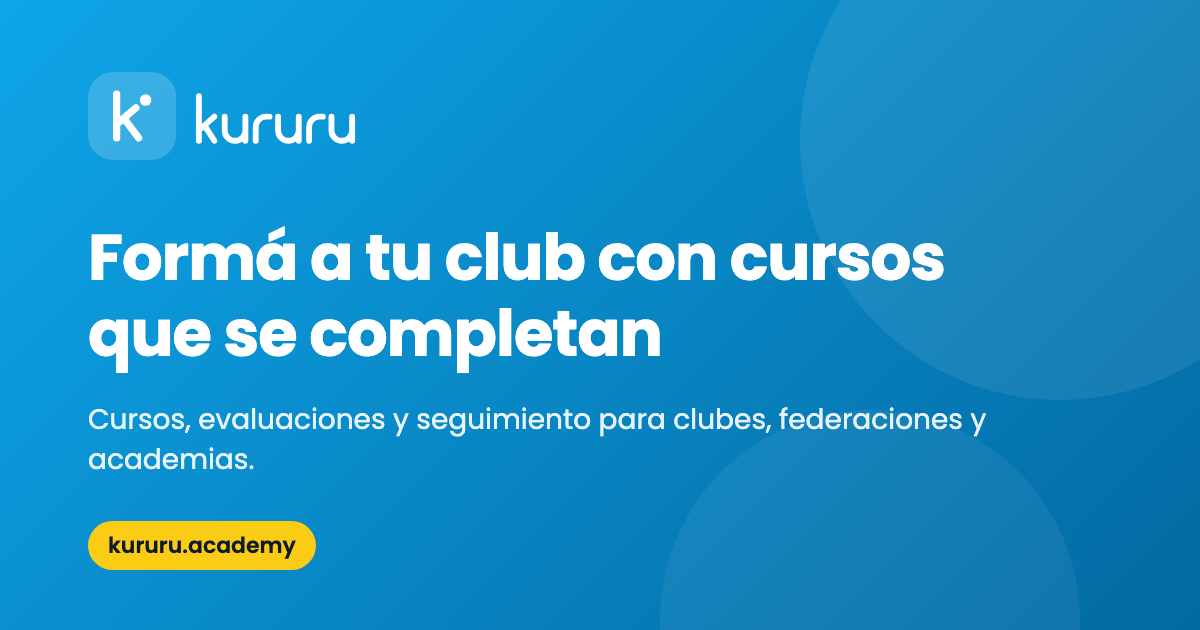
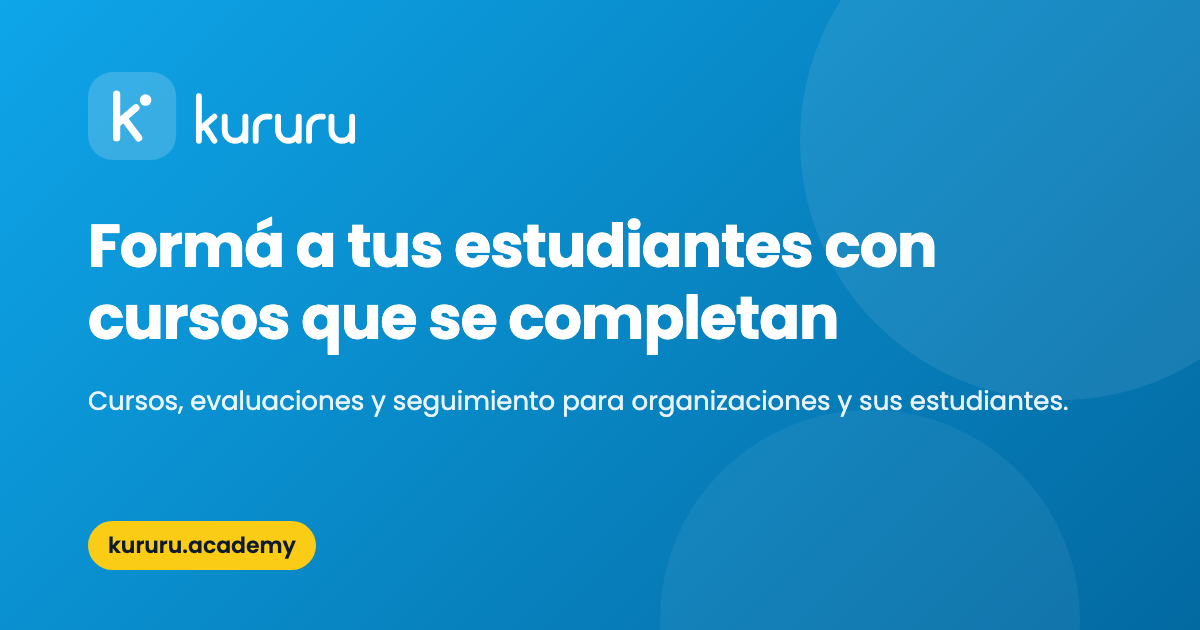
feat(landing): speak to organizations and students, not clubs and athletes
Generic wording across landing, login panel, app description, share image
and OTP email footers so the platform is not tied to sports only.

Changed region(s): [[0.0617, 0.3317, 0.8942, 0.754]]

diff --git a/src/lib/messages/landing.ts b/src/lib/messages/landing.ts
@@ -4,9 +4,9 @@
  */
 export const landingMessages = {
   meta: {
-    title: "Formación para clubes y federaciones",
+    title: "Formación para organizaciones y sus estudiantes",
     description:
-      "Kururu es la plataforma de formación para clubes, federaciones y academias deportivas: cursos, evaluaciones y seguimiento del progreso en un solo lugar.",
+      "Kururu es la plataforma de formación para organizaciones: cursos, evaluaciones y seguimiento del progreso de tus estudiantes en un solo lugar.",
   },
   header: {
     login: "Iniciar sesión",
@@ -14,11 +14,11 @@ export const landingMessages = {
     nav: { features: "Funcionalidades", experience: "Experiencia", how: "Cómo funciona", roles: "Roles" },
   },
   hero: {
-    eyebrow: "Para clubes, federaciones y academias",
-    titleStart: "Formá a tu club con cursos que",
+    eyebrow: "Para organizaciones que forman",
+    titleStart: "Formá a tus estudiantes con cursos que",
     titleHighlight: "se completan",
     subtitle:
-      "Cursos, evaluaciones y seguimiento en un solo lugar. Tus profesores enseñan, tus deportistas avanzan a su ritmo y vos ves el progreso de toda la organización.",
+      "Cursos, evaluaciones y seguimiento en un solo lugar. Tus profesores enseñan, tus estudiantes avanzan a su ritmo y vos ves el progreso de toda la organización.",
     ctaPrimary: "Ingresar a la plataforma",
     ctaSecondary: "Ver funcionalidades",
     mock: {
@@ -26,7 +26,7 @@ export const landingMessages = {
       subtitle: "Resumen de esta semana",
       // `value` is animated as a counter; `suffix` stays static next to it.
       stats: [
-        { label: "Deportistas activos", value: 248, suffix: "", delta: "+12" },
+        { label: "Estudiantes activos", value: 248, suffix: "", delta: "+12" },
         { label: "Cursos publicados", value: 16, suffix: "", delta: "+3" },
         { label: "Evaluaciones aprobadas", value: 91, suffix: " %", delta: "+4 %" },
       ],
@@ -37,13 +37,13 @@ export const landingMessages = {
   },
   features: {
     eyebrow: "Funcionalidades",
-    title: "Todo lo que necesita una organización deportiva para formar",
-    lead: "Pensado para clubes, federaciones y academias que quieren enseñar mejor y medir resultados.",
+    title: "Todo lo que necesita una organización para formar",
+    lead: "Pensado para organizaciones que quieren enseñar mejor y medir resultados.",
     items: [
       {
         icon: "organizations",
         title: "Un espacio por organización",
-        description: "Cada club o federación trabaja con sus propios miembros, grupos y cursos, completamente aislados del resto.",
+        description: "Cada organización trabaja con sus propios miembros, grupos y cursos, completamente aislados del resto.",
       },
       {
         icon: "courses",
@@ -73,7 +73,7 @@ export const landingMessages = {
     ],
   },
   experience: {
-    eyebrow: "Para tus deportistas",
+    eyebrow: "Para tus estudiantes",
     title: "Una experiencia que dan ganas de completar",
     lead: "Lecciones cortas, videos con preguntas, progreso siempre visible y un reconocimiento cada vez que terminan algo.",
     points: [
@@ -97,7 +97,7 @@ export const landingMessages = {
     steps: [
       {
         title: "Creá tu organización",
-        description: "Definí tu club o federación, invitá administradores y compartí links de registro con tu comunidad.",
+        description: "Configurá tu espacio, invitá administradores y compartí links de registro con tu comunidad.",
       },
       {
         title: "Publicá cursos y evaluaciones",
@@ -105,7 +105,7 @@ export const landingMessages = {
       },
       {
         title: "Seguí el progreso",
-        description: "Mirá las estadísticas por edición, corregí entregas y acompañá a cada deportista hasta el final.",
+        description: "Mirá las estadísticas por edición, corregí entregas y acompañá a cada estudiante hasta el final.",
       },
     ],
   },
@@ -128,7 +128,7 @@ export const landingMessages = {
       },
       {
         icon: "student",
-        title: "Deportista",
+        title: "Estudiante",
         description: "Aprendé a tu ritmo desde cualquier dispositivo.",
         bullets: ["Tus cursos y progreso por módulo", "Quizzes y exámenes con autoguardado", "Resultados y devoluciones"],
       },
@@ -144,7 +144,7 @@ export const landingMessages = {
     ],
   },
   finalCta: {
-    title: "Llevá la formación de tu club al siguiente nivel",
+    title: "Llevá la formación de tu organización al siguiente nivel",
     description: "Ingresá con tu correo: sin contraseñas y con los datos de tu organización siempre aislados.",
     action: "Ingresar a la plataforma",
   },

diff --git a/supabase/templates/otp-code.html b/supabase/templates/otp-code.html
@@ -52,7 +52,7 @@
         <table role="presentation" width="100%" cellpadding="0" cellspacing="0" border="0" style="max-width:520px;">
           <tr>
             <td align="center" style="padding:20px 16px 0 16px;font-family:Poppins,'Segoe UI',Arial,sans-serif;font-size:12px;line-height:18px;color:#64748B;">
-              <span style="display:inline-block;padding:3px 10px;margin-bottom:8px;border-radius:999px;background-color:#FACC15;color:#0F1B2D;font-weight:600;">Plataforma para organizaciones deportivas</span><br>
+              <span style="display:inline-block;padding:3px 10px;margin-bottom:8px;border-radius:999px;background-color:#FACC15;color:#0F1B2D;font-weight:600;">Plataforma de formación para organizaciones</span><br>
               <a href="{{ .SiteURL }}" style="color:#0369A1;text-decoration:none;font-weight:600;">kururu.academy</a>
             </td>
           </tr>

diff --git a/supabase/templates/signup-code.html b/supabase/templates/signup-code.html
@@ -52,7 +52,7 @@
         <table role="presentation" width="100%" cellpadding="0" cellspacing="0" border="0" style="max-width:520px;">
           <tr>
             <td align="center" style="padding:20px 16px 0 16px;font-family:Poppins,'Segoe UI',Arial,sans-serif;font-size:12px;line-height:18px;color:#64748B;">
-              <span style="display:inline-block;padding:3px 10px;margin-bottom:8px;border-radius:999px;background-color:#FACC15;color:#0F1B2D;font-weight:600;">Plataforma para organizaciones deportivas</span><br>
+              <span style="display:inline-block;padding:3px 10px;margin-bottom:8px;border-radius:999px;background-color:#FACC15;color:#0F1B2D;font-weight:600;">Plataforma de formación para organizaciones</span><br>
               <a href="{{ .SiteURL }}" style="color:#0369A1;text-decoration:none;font-weight:600;">kururu.academy</a>
             </td>
           </tr>

diff --git a/src/lib/messages/auth-brand.ts b/src/lib/messages/auth-brand.ts
@@ -3,10 +3,10 @@
  * Kept apart from `es.ts` so frozen auth/E2E strings never drift.
  */
 export const authBrandMessages = {
-  tagline: "Plataforma para organizaciones deportivas",
+  tagline: "Plataforma de formación para organizaciones",
   headline: "Formá a tu equipo desde un solo lugar",
   subheadline:
-    "Cursos, evaluaciones y seguimiento para clubes, federaciones y academias.",
+    "Cursos, evaluaciones y seguimiento para organizaciones y sus estudiantes.",
   valueProps: [
     {
       title: "Acceso seguro sin contraseñas",

diff --git a/src/lib/constants.ts b/src/lib/constants.ts
@@ -1,7 +1,7 @@
 /** D21: single source of truth for the platform's working name. */
 export const APP_NAME = "Kururu"
 
-export const APP_DESCRIPTION = "Plataforma de formación deportiva multi-organización"
+export const APP_DESCRIPTION = "Plataforma de formación para organizaciones y sus estudiantes"
 
 /** Shared Open Graph fields; pages that set `openGraph` must spread it (Next replaces, not merges). */
 export const BASE_OPEN_GRAPH = { type: "website", siteName: APP_NAME, locale: "es_UY" } as const
